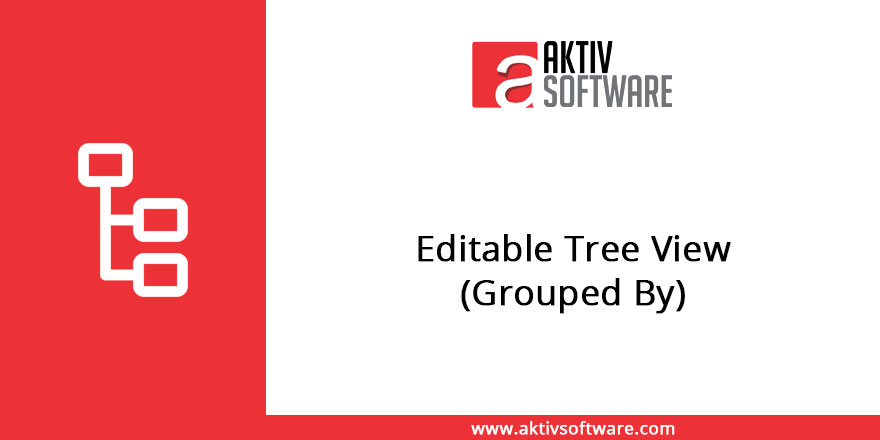
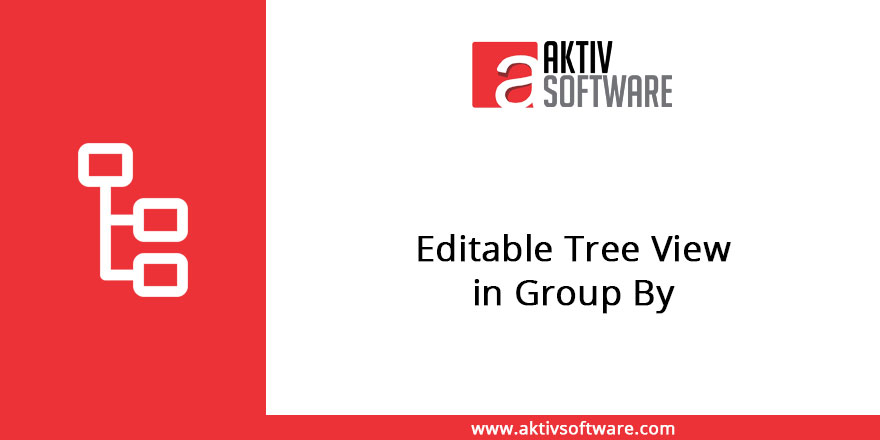
[IMP] index and manifest file for license for branch 9.0

Changed region(s): [[0.5216, 0.6205, 0.7977, 0.7091]]

diff --git a/grouped_by_list_view_editable/static/description/index.html b/grouped_by_list_view_editable/static/description/index.html
@@ -1,18 +1,53 @@
-<section class="oe_container oe_dark">
-    <div class="oe_row oe_padded">
-        
-    <div class="panel-heading"
-        style="padding: 8px; font-weight: 300; font-size: 20px; background-color: #004460;">
-        <i class="fa fa-cog" style="color: white;"></i> <b
-            style="color: white;">How it Works </b>
-    </div>
-
-    <h3 class="oe_slogan oe_mt16">Tree View(Editable)</h3>
-    <h6><span class="fa fa-hand-o-right"/> User can directly edit tree view on apllied "Groupd By" as per shown.</h6>
-    <div class="oe_span12">
-        <div class="oe_row_img">
-            <img class="oe_picture oe_screenshot" src="page.png">
+<section class="oe_container">
+    <div class="oe_row oe_centered">
+        <div class="oe_span_10 oe_centered">
+            <h4 class="oe_slogan" style="margin-left: 120px;"><b><span class="fa fa-star fa-spin"></span>
+                    Editable Tree View in Group By </span></b></h4>
         </div>
     </div>
-    <br/>
+
+    <p align="left">With this module user can edit the attributes available in the tree view (quotation number, order date, customer name, salesperson, and total amount) even when “Group By” is applied.</p>
+
+    <div class="oe_row oe_centered">
+        <div class="oe_span_10 oe_centered">
+            <h4 class="oe_slogan" style="margin-left: 120px;"><b><span class="fa fa-star fa-spin"></span>
+                    Prerequisites before Installation </span></b></h4>
+        </div>
+    </div>
+    <p align="left">No prerequisites required before installation.</p>
+
+
+    <div class="oe_row oe_centered">
+        <div class="oe_span_10 oe_centered">
+            <h4 class="oe_slogan" style="margin-left: 120px;"><b><span class="fa fa-star fa-spin"></span>
+                    Configurations </span></b></h4>
+        </div>
+    </div>
+    <p align="left">No configurations required.</p>
+
+    <div class="oe_centered">
+        <p>As shown in the figure user can edit any of the attributes displayed in the tree view of Quotations module. And this is applicable to tree-view available on other different modules such as customers, sales order, products, etc. in Odoo.</p>
+    </div>
+    <div class="oe_row oe_centered">
+        <div class="oe_span12">
+            <img src="page.png" style="width: 100%;"/>
+        </div>
+    </div>
+
+    <div class="oe_row oe_spaced">
+        <h2 class="oe_slogan">
+            <a href="http://aktivsoftware.com/" target="new">
+                <img src="http://aktivsoftware.com/wp-content/uploads/2018/01/logo-1.png"/>
+            </a>
+            <br/>
+            <a href="mailto:sales@aktivsoftware.com" style="color: #000000 !important;">
+                        Get Help &amp; Support
+            </a>
+        </h2>
+        <div class="oe_slogan oe_spaced text-center">
+            <a class="btn btn success mt8" title="website" target="new" style="background-color:#ff4040;  color: #ffffff; !important; position:relative; overflow: hidden;" href="http://aktivsoftware.com/"><b>Website</b></a>
+            <a class="btn btn success mt8" title="Contact Us" style="background-color:#ff4040; color: #ffffff; !important; position:relative; overflow: hidden;" href="mailto:sales@aktivsoftware.com"><b>Contact Us</b></a>
+            <a class="btn btn success mt8" title="Request New Features Now!" style="background-color:#ff4040; color: #ffffff; !important; position:relative; overflow: hidden;" href="mailto:sales@aktivsoftware.com"><b>Request For New Features</b></a>
+        </div>
+    </div>
 </section>

diff --git a/grouped_by_list_view_editable/__openerp__.py b/grouped_by_list_view_editable/__openerp__.py
@@ -5,6 +5,7 @@
     'version': '9.0.0.1',
     'author': 'Aktiv Software',
     'website': 'www.aktivsoftware.com',
+    'license': "AGPL-3",
     'depends': ['web'],
     'description': """
     """,
